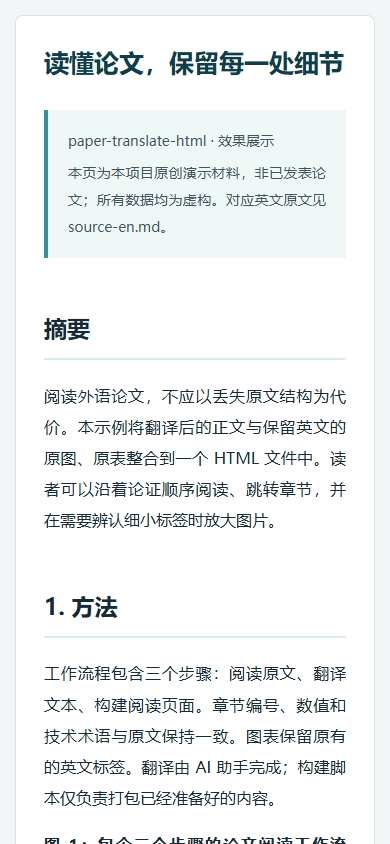
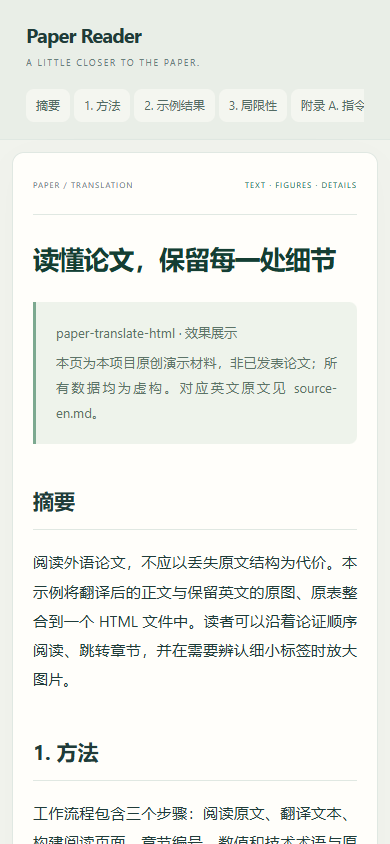
Polish reader layout and rebuild preview cards from verified screenshots

Changed region(s): [[0.0615, 0.3697, 0.9231, 1.0], [0.0615, 0.0308, 0.9231, 0.3389], [0.6462, 0.2773, 0.8615, 0.3389]]

diff --git a/examples/demo-zh.html b/examples/demo-zh.html
@@ -1,10 +1,60 @@
-<!doctype html><html lang="zh-CN"><head><meta charset="utf-8"><meta name="viewport" content="width=device-width,initial-scale=1"><title>论文翻译效果展示</title><style>:root{color-scheme:light;--ink:#172b36;--muted:#51616b;--accent:#116b76;--line:#d8e2e5}*{box-sizing:border-box}html{scroll-behavior:smooth}body{margin:0;background:#f3f6f6;color:var(--ink);font-family:"Microsoft YaHei","PingFang SC",sans-serif;line-height:1.95;font-size:16px}nav{position:fixed;top:0;bottom:0;left:0;width:245px;padding:35px 22px;overflow:auto;border-right:1px solid var(--line);background:#edf2f2}nav strong{display:block;color:var(--accent);font-size:22px;margin-bottom:22px}nav a{display:block;color:var(--muted);font-size:13px;text-decoration:none;padding:6px 0;line-height:1.6}nav a:hover{color:var(--accent)}main{margin:35px 35px 70px 280px;max-width:1060px;background:#fff;padding:52px 58px;border:1px solid var(--line);border-radius:8px}h1{font-size:29px;line-height:1.5;margin:0 0 28px;color:#103d4a}h2{font-size:23px;line-height:1.6;margin-top:52px;padding-bottom:12px;border-bottom:2px solid #dcebed;scroll-margin-top:25px}h3{font-size:18px;margin-top:33px;scroll-margin-top:25px}p{margin:16px 0;text-align:justify}blockquote{margin:24px 0;padding:12px 20px;border-left:4px solid #38909a;background:#f0f7f7;color:#3e555e;font-size:14px}blockquote p{margin:5px 0}pre{white-space:pre-wrap;overflow-wrap:anywhere;background:#f2f5f6;padding:22px;border:1px solid var(--line);border-radius:5px;font-size:14px;line-height:1.85}code{font-family:Consolas,"Microsoft YaHei",monospace}li{margin:7px 0}a{color:var(--accent)}.table-wrap{width:100%;overflow-x:auto;margin:20px 0;border:1px solid var(--line);border-radius:4px}table{border-collapse:collapse;min-width:100%;font-size:12px;line-height:1.65}th,td{padding:10px 11px;border-bottom:1px solid var(--line);text-align:left;white-space:nowrap}th{background:#e8f2f3;color:#174b59}tr:nth-child(even){background:#f7f9fa}.figure{border:1px solid var(--line);border-radius:5px;padding:12px 17px;margin:20px 0;background:#fafcfc}.figure summary{color:var(--accent);cursor:pointer;font-size:14px}.figure img{display:block;width:100%;height:auto;margin:18px auto 5px}.meta{font-size:12px;color:var(--muted);letter-spacing:2px;margin-bottom:18px}.tools{position:fixed;bottom:20px;right:22px}button{border:1px solid var(--line);background:white;color:var(--accent);border-radius:5px;padding:10px 16px;cursor:pointer}@media(max-width:1000px){nav{display:none}main{margin:15px;padding:28px;max-width:none}h1{font-size:25px}}@media print{nav,.tools{display:none}body{background:white;font-size:10pt}main{margin:0;padding:0;border:0;max-width:none}h2,h3{break-after:avoid}table{font-size:7pt}.table-wrap{overflow:visible}th,td{white-space:normal;padding:4px}a{color:inherit}.figure{break-inside:avoid}pre{font-size:9pt}}
-
-.figure{display:block}.figure-label{display:block;color:var(--accent);font-size:14px}main{overflow-wrap:anywhere}
+<!doctype html><html lang="zh-CN"><head><meta charset="utf-8"><meta name="viewport" content="width=device-width,initial-scale=1"><title>Paper Reader — Chinese translation demo</title><style>:root {
+  color-scheme: light;
+  --ink: #203c39; --muted: #69807b; --accent: #197361;
+  --line: #e0e8e2; --paper: #fffefa;
+}
+* { box-sizing: border-box; }
+html { scroll-behavior: smooth; }
+body { margin: 0; background: #f1f3ed; color: var(--ink); font: 16px/1.95 "Segoe UI", "Microsoft YaHei", "PingFang SC", sans-serif; }
+nav { position: fixed; inset: 0 auto 0 0; width: 238px; padding: 48px 24px; background: #e9eee7; border-right: 1px solid var(--line); overflow: auto; }
+nav strong { display: block; margin-bottom: 6px; font-size: 23px; letter-spacing: -.8px; line-height: 1.3; }
+nav .nav-subtitle { display: block; color: var(--muted); font-size: 11px; letter-spacing: 1.6px; text-transform: uppercase; margin-bottom: 48px; }
+nav .nav-label { display: block; font-size: 10px; letter-spacing: 2px; color: var(--muted); margin-bottom: 16px; }
+nav a { display: block; color: #536b64; text-decoration: none; font-size: 13px; padding: 11px 12px; border-radius: 8px; line-height: 1.6; margin: 3px 0; }
+nav a:hover,nav a:focus-visible { color: var(--accent); background: #dce7dd; }
+main { margin: 32px 32px 72px 270px; max-width: 1050px; padding: 48px 60px 70px; background: var(--paper); border: 1px solid var(--line); border-radius: 16px; overflow-wrap: anywhere; box-shadow: 0 10px 40px #233a2d04; }
+.reader-header { display: flex; justify-content: space-between; gap: 16px; color: var(--muted); font-size: 10px; letter-spacing: 1.8px; padding-bottom: 22px; margin-bottom: 36px; border-bottom: 1px solid var(--line); }
+.reader-header span:last-child { color: var(--accent); }
+h1 { font-size: clamp(26px,2.5vw,36px); line-height: 1.5; letter-spacing: -.8px; color: #153e33; margin: 0 0 24px; }
+h2 { font-size: 22px; margin: 40px 0 18px; padding-bottom: 12px; border-bottom: 1px solid var(--line); scroll-margin-top: 24px; line-height: 1.6; }
+h3 { font-size: 18px; margin-top: 30px; scroll-margin-top: 24px; }
+p { margin: 14px 0; text-align: justify; }
+blockquote { margin: 22px 0; padding: 14px 20px; border-left: 3px solid #7ca990; background: #eef3eb; color: #5c7468; border-radius: 0 8px 8px 0; font-size: 13px; }
+blockquote p { margin: 4px 0; }
+pre { white-space: pre-wrap; overflow-wrap: anywhere; padding: 20px; background: #eef2ec; border-radius: 8px; font-size: 14px; }
+code { font-family: Consolas, monospace; }
+li { margin: 7px 0; } a { color: var(--accent); }
+table { border-collapse: collapse; width: 100%; font-size: 13px; }
+th,td { border-bottom: 1px solid var(--line); padding: 10px; text-align: left; }
+th { background: #edf3eb; }
+.figure { display: block; border: 1px solid var(--line); border-radius: 12px; padding: 16px; margin: 22px 0; background: white; }
+.figure-label { display: block; font-size: 12px; color: var(--muted); padding: 0 4px 12px; border-bottom: 1px solid #edf0ea; }
+.figure img { display: block; width: 100%; height: auto; margin: 14px auto 0; }
+button { border: 1px solid var(--line); background: white; color: var(--accent); border-radius: 7px; padding: 9px 14px; cursor: pointer; }
+button:hover { background: #eef4eb; }
+:focus-visible { outline: 2px solid var(--accent); outline-offset: 4px; }
+@media(max-width:1000px) {
+  nav { position: static; width: auto; padding: 22px 26px 14px; border-right: 0; border-bottom: 1px solid var(--line); }
+  nav strong { font-size: 20px; } nav .nav-subtitle { margin-bottom: 14px; font-size: 9px; }
+  nav .nav-label { display: none; } .nav-links { display: flex; overflow-x: auto; gap: 4px; }
+  nav a { white-space: nowrap; flex-shrink: 0; font-size: 12px; padding: 7px 10px; background: #f4f6f0; }
+  main { margin: 18px; padding: 28px; max-width: none; border-radius: 12px; }
+}
+@media(max-width:480px) {
+  body { font-size: 15px; } main { margin: 12px; padding: 24px 20px; }
+  .reader-header { font-size: 8px; letter-spacing: 1px; margin-bottom: 24px; gap: 8px; }
+  h1 { font-size: 26px; } h2 { font-size: 21px; } .figure { padding: 10px; }
+}
+@media(prefers-reduced-motion:reduce) { html { scroll-behavior: auto; } }
+@media print {
+  nav,.reader-header { display: none; } body { background: white; font-size: 10pt; }
+  main { margin: 0; padding: 0; max-width: none; border: 0; box-shadow: none; }
+  h2,h3 { break-after: avoid; } .figure { break-inside: avoid; } a { color: inherit; }
+}
 
 .figure img{cursor:zoom-in}.figure summary::after{content:' · 点击图片放大';font-size:12px;color:#657e85;font-weight:normal}
 .image-viewer{width:96vw;height:94vh;max-width:none;max-height:none;padding:0;border:1px solid #799199;border-radius:8px;background:#e7ecee;color:#172b36;overflow:hidden}.image-viewer::backdrop{background:rgba(8,23,30,.8)}.viewer-toolbar{height:58px;display:flex;align-items:center;gap:8px;padding:8px 16px;background:#fff;border-bottom:1px solid #ccd9df}.viewer-toolbar strong{margin-right:auto;font-size:14px;white-space:nowrap;overflow:hidden;text-overflow:ellipsis}.viewer-toolbar button{padding:7px 12px;white-space:nowrap}.viewer-viewport{height:calc(100% - 58px);width:100%;overflow:auto;overscroll-behavior:contain;padding:20px}.viewer-viewport img{display:block;max-width:none;max-height:none;height:auto;margin:0 auto;background:#fff}.viewer-scale{font-size:12px;min-width:40px;text-align:center}@media(max-width:650px){.viewer-toolbar{gap:4px;padding:7px}.viewer-toolbar button{font-size:12px;padding:7px}.viewer-toolbar strong{display:none}.viewer-viewport{padding:8px}}@media print{.image-viewer{display:none}.figure summary::after{content:''}}
-</style></head><body><nav aria-label="章节目录"><strong>论文中文译稿</strong><a href="#section-2">摘要</a><a href="#section-3">1. 方法</a><a href="#section-4">2. 示例结果</a><a href="#section-5">3. 局限性</a><a href="#section-6">附录 A. 指令示例</a></nav><main><h1 id="section-1">读懂论文，保留每一处细节</h1><blockquote>
+</style></head><body><nav aria-label="章节目录"><strong>Paper Reader</strong><span class="nav-subtitle">A little closer to the paper.</span><span class="nav-label">CONTENTS</span><div class="nav-links"><a href="#section-2">摘要</a><a href="#section-3">1. 方法</a><a href="#section-4">2. 示例结果</a><a href="#section-5">3. 局限性</a><a href="#section-6">附录 A. 指令示例</a></div></nav><main><header class="reader-header"><span>PAPER / TRANSLATION</span><span>TEXT · FIGURES · DETAILS</span></header><h1 id="section-1">读懂论文，保留每一处细节</h1><blockquote>
 <p>paper-translate-html · 效果展示</p>
 <p>本页为本项目原创演示材料，非已发表论文；所有数据均为虚构。对应英文原文见 source-en.md。</p>
 </blockquote>

diff --git a/assets/reader.css b/assets/reader.css
@@ -1,3 +1,53 @@
-:root{color-scheme:light;--ink:#172b36;--muted:#51616b;--accent:#116b76;--line:#d8e2e5}*{box-sizing:border-box}html{scroll-behavior:smooth}body{margin:0;background:#f3f6f6;color:var(--ink);font-family:"Microsoft YaHei","PingFang SC",sans-serif;line-height:1.95;font-size:16px}nav{position:fixed;top:0;bottom:0;left:0;width:245px;padding:35px 22px;overflow:auto;border-right:1px solid var(--line);background:#edf2f2}nav strong{display:block;color:var(--accent);font-size:22px;margin-bottom:22px}nav a{display:block;color:var(--muted);font-size:13px;text-decoration:none;padding:6px 0;line-height:1.6}nav a:hover{color:var(--accent)}main{margin:35px 35px 70px 280px;max-width:1060px;background:#fff;padding:52px 58px;border:1px solid var(--line);border-radius:8px}h1{font-size:29px;line-height:1.5;margin:0 0 28px;color:#103d4a}h2{font-size:23px;line-height:1.6;margin-top:52px;padding-bottom:12px;border-bottom:2px solid #dcebed;scroll-margin-top:25px}h3{font-size:18px;margin-top:33px;scroll-margin-top:25px}p{margin:16px 0;text-align:justify}blockquote{margin:24px 0;padding:12px 20px;border-left:4px solid #38909a;background:#f0f7f7;color:#3e555e;font-size:14px}blockquote p{margin:5px 0}pre{white-space:pre-wrap;overflow-wrap:anywhere;background:#f2f5f6;padding:22px;border:1px solid var(--line);border-radius:5px;font-size:14px;line-height:1.85}code{font-family:Consolas,"Microsoft YaHei",monospace}li{margin:7px 0}a{color:var(--accent)}.table-wrap{width:100%;overflow-x:auto;margin:20px 0;border:1px solid var(--line);border-radius:4px}table{border-collapse:collapse;min-width:100%;font-size:12px;line-height:1.65}th,td{padding:10px 11px;border-bottom:1px solid var(--line);text-align:left;white-space:nowrap}th{background:#e8f2f3;color:#174b59}tr:nth-child(even){background:#f7f9fa}.figure{border:1px solid var(--line);border-radius:5px;padding:12px 17px;margin:20px 0;background:#fafcfc}.figure summary{color:var(--accent);cursor:pointer;font-size:14px}.figure img{display:block;width:100%;height:auto;margin:18px auto 5px}.meta{font-size:12px;color:var(--muted);letter-spacing:2px;margin-bottom:18px}.tools{position:fixed;bottom:20px;right:22px}button{border:1px solid var(--line);background:white;color:var(--accent);border-radius:5px;padding:10px 16px;cursor:pointer}@media(max-width:1000px){nav{display:none}main{margin:15px;padding:28px;max-width:none}h1{font-size:25px}}@media print{nav,.tools{display:none}body{background:white;font-size:10pt}main{margin:0;padding:0;border:0;max-width:none}h2,h3{break-after:avoid}table{font-size:7pt}.table-wrap{overflow:visible}th,td{white-space:normal;padding:4px}a{color:inherit}.figure{break-inside:avoid}pre{font-size:9pt}}
-
-.figure{display:block}.figure-label{display:block;color:var(--accent);font-size:14px}main{overflow-wrap:anywhere}
+:root {
+  color-scheme: light;
+  --ink: #203c39; --muted: #69807b; --accent: #197361;
+  --line: #e0e8e2; --paper: #fffefa;
+}
+* { box-sizing: border-box; }
+html { scroll-behavior: smooth; }
+body { margin: 0; background: #f1f3ed; color: var(--ink); font: 16px/1.95 "Segoe UI", "Microsoft YaHei", "PingFang SC", sans-serif; }
+nav { position: fixed; inset: 0 auto 0 0; width: 238px; padding: 48px 24px; background: #e9eee7; border-right: 1px solid var(--line); overflow: auto; }
+nav strong { display: block; margin-bottom: 6px; font-size: 23px; letter-spacing: -.8px; line-height: 1.3; }
+nav .nav-subtitle { display: block; color: var(--muted); font-size: 11px; letter-spacing: 1.6px; text-transform: uppercase; margin-bottom: 48px; }
+nav .nav-label { display: block; font-size: 10px; letter-spacing: 2px; color: var(--muted); margin-bottom: 16px; }
+nav a { display: block; color: #536b64; text-decoration: none; font-size: 13px; padding: 11px 12px; border-radius: 8px; line-height: 1.6; margin: 3px 0; }
+nav a:hover,nav a:focus-visible { color: var(--accent); background: #dce7dd; }
+main { margin: 32px 32px 72px 270px; max-width: 1050px; padding: 48px 60px 70px; background: var(--paper); border: 1px solid var(--line); border-radius: 16px; overflow-wrap: anywhere; box-shadow: 0 10px 40px #233a2d04; }
+.reader-header { display: flex; justify-content: space-between; gap: 16px; color: var(--muted); font-size: 10px; letter-spacing: 1.8px; padding-bottom: 22px; margin-bottom: 36px; border-bottom: 1px solid var(--line); }
+.reader-header span:last-child { color: var(--accent); }
+h1 { font-size: clamp(26px,2.5vw,36px); line-height: 1.5; letter-spacing: -.8px; color: #153e33; margin: 0 0 24px; }
+h2 { font-size: 22px; margin: 40px 0 18px; padding-bottom: 12px; border-bottom: 1px solid var(--line); scroll-margin-top: 24px; line-height: 1.6; }
+h3 { font-size: 18px; margin-top: 30px; scroll-margin-top: 24px; }
+p { margin: 14px 0; text-align: justify; }
+blockquote { margin: 22px 0; padding: 14px 20px; border-left: 3px solid #7ca990; background: #eef3eb; color: #5c7468; border-radius: 0 8px 8px 0; font-size: 13px; }
+blockquote p { margin: 4px 0; }
+pre { white-space: pre-wrap; overflow-wrap: anywhere; padding: 20px; background: #eef2ec; border-radius: 8px; font-size: 14px; }
+code { font-family: Consolas, monospace; }
+li { margin: 7px 0; } a { color: var(--accent); }
+table { border-collapse: collapse; width: 100%; font-size: 13px; }
+th,td { border-bottom: 1px solid var(--line); padding: 10px; text-align: left; }
+th { background: #edf3eb; }
+.figure { display: block; border: 1px solid var(--line); border-radius: 12px; padding: 16px; margin: 22px 0; background: white; }
+.figure-label { display: block; font-size: 12px; color: var(--muted); padding: 0 4px 12px; border-bottom: 1px solid #edf0ea; }
+.figure img { display: block; width: 100%; height: auto; margin: 14px auto 0; }
+button { border: 1px solid var(--line); background: white; color: var(--accent); border-radius: 7px; padding: 9px 14px; cursor: pointer; }
+button:hover { background: #eef4eb; }
+:focus-visible { outline: 2px solid var(--accent); outline-offset: 4px; }
+@media(max-width:1000px) {
+  nav { position: static; width: auto; padding: 22px 26px 14px; border-right: 0; border-bottom: 1px solid var(--line); }
+  nav strong { font-size: 20px; } nav .nav-subtitle { margin-bottom: 14px; font-size: 9px; }
+  nav .nav-label { display: none; } .nav-links { display: flex; overflow-x: auto; gap: 4px; }
+  nav a { white-space: nowrap; flex-shrink: 0; font-size: 12px; padding: 7px 10px; background: #f4f6f0; }
+  main { margin: 18px; padding: 28px; max-width: none; border-radius: 12px; }
+}
+@media(max-width:480px) {
+  body { font-size: 15px; } main { margin: 12px; padding: 24px 20px; }
+  .reader-header { font-size: 8px; letter-spacing: 1px; margin-bottom: 24px; gap: 8px; }
+  h1 { font-size: 26px; } h2 { font-size: 21px; } .figure { padding: 10px; }
+}
+@media(prefers-reduced-motion:reduce) { html { scroll-behavior: auto; } }
+@media print {
+  nav,.reader-header { display: none; } body { background: white; font-size: 10pt; }
+  main { margin: 0; padding: 0; max-width: none; border: 0; box-shadow: none; }
+  h2,h3 { break-after: avoid; } .figure { break-inside: avoid; } a { color: inherit; }
+}

diff --git a/README.md b/README.md
@@ -4,6 +4,12 @@
 
 A Codex skill that turns English research papers into readable Chinese HTML documents. Less copying and formatting, more time for reading.
 
+![Paper Reader: a calm reading layout with chapter navigation and original figures](docs/preview-reading.png)
+
+[Explore the demo](examples/demo-zh.html) · [Compare the source](examples/source-en.md) · [Workflow guide](references/workflow.md)
+
+## What you get
+
 - **Complete translations:** covers the main text and appendices by default, preserving structure, numbering, and academic meaning.
 - **Original figures and tables:** preserves English labels, extracts original images where possible, and renders composite figures at high resolution.
 - **Comfortable reading:** chapter navigation, responsive layouts, click-to-zoom, and original-size viewing.
@@ -15,19 +21,13 @@ The AI assistant performs the translation. The scripts extract visual assets and
 
 These examples use original English and Chinese demonstration material created for this repository. All data are fictional, not research findings or performance benchmarks. Chinese text in the screenshots demonstrates the translated output.
 
-### 1. Readable text and chapter navigation
-
-![Chinese translation with chapter navigation](docs/preview-reading.png)
-
-### 2. Original English figures and tables
+### Original English figures and tables
 
 ![High-resolution English table preserved in the translation](docs/preview-table.png)
 
-### 3. Zoom into details, or read on a narrow screen
+### Zoom into details, or read on a narrow screen
 
 ![Image viewer with zoom controls](docs/preview-zoom.png)
-
-<img src="docs/preview-mobile.png" width="320" alt="Mobile reading layout">
 
 Download the [HTML demo](examples/demo-zh.html) and open it in your browser. GitHub's file view displays the source code. Compare the [English source](examples/source-en.md) with the [Chinese translation](examples/demo-zh.md).
 
@@ -77,6 +77,30 @@ npm test
 ```
 
 Open `examples/demo-zh.html`. See the [workflow guide](references/workflow.md) for figure extraction and custom build commands.
+
+## How it works
+
+| Step | What happens |
+| --- | --- |
+| Read | The assistant checks the PDF's structure, reading order, and figure boundaries. |
+| Translate | It translates the requested text and captions while preserving values, references, and original visuals. |
+| Package | Local scripts bundle the prepared Markdown and images into a standalone reader. |
+| Verify | The assistant checks coverage, visual quality, image zoom, and desktop and mobile layouts. |
+
+The default output language is Simplified Chinese. Repository documentation is in English; Chinese text in the demo shows the actual translation output.
+
+## Rebuild the previews
+
+The preview cards contain actual browser screenshots of the bundled demo. To regenerate them after changing the reader:
+
+```bash
+npm run demo
+npm install --no-save playwright
+npx playwright install chromium
+node scripts/capture_preview.cjs
+```
+
+The optional capture script also checks image loading, original-size viewing, zoom controls, scrolling, mobile navigation, and closing the viewer. Playwright is only needed to regenerate previews.
 
 ## Limitations
 
